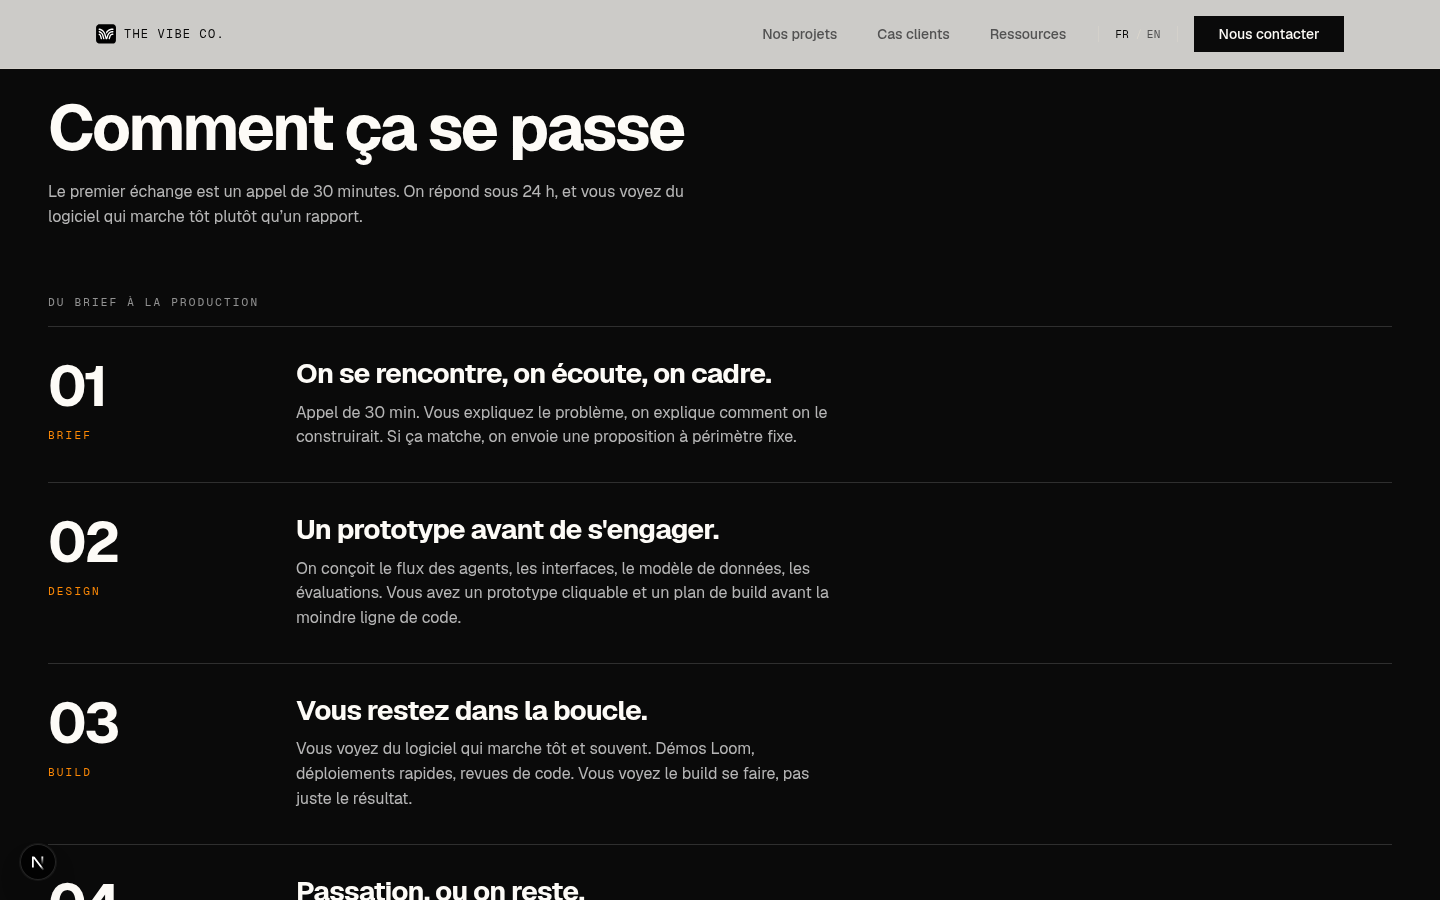
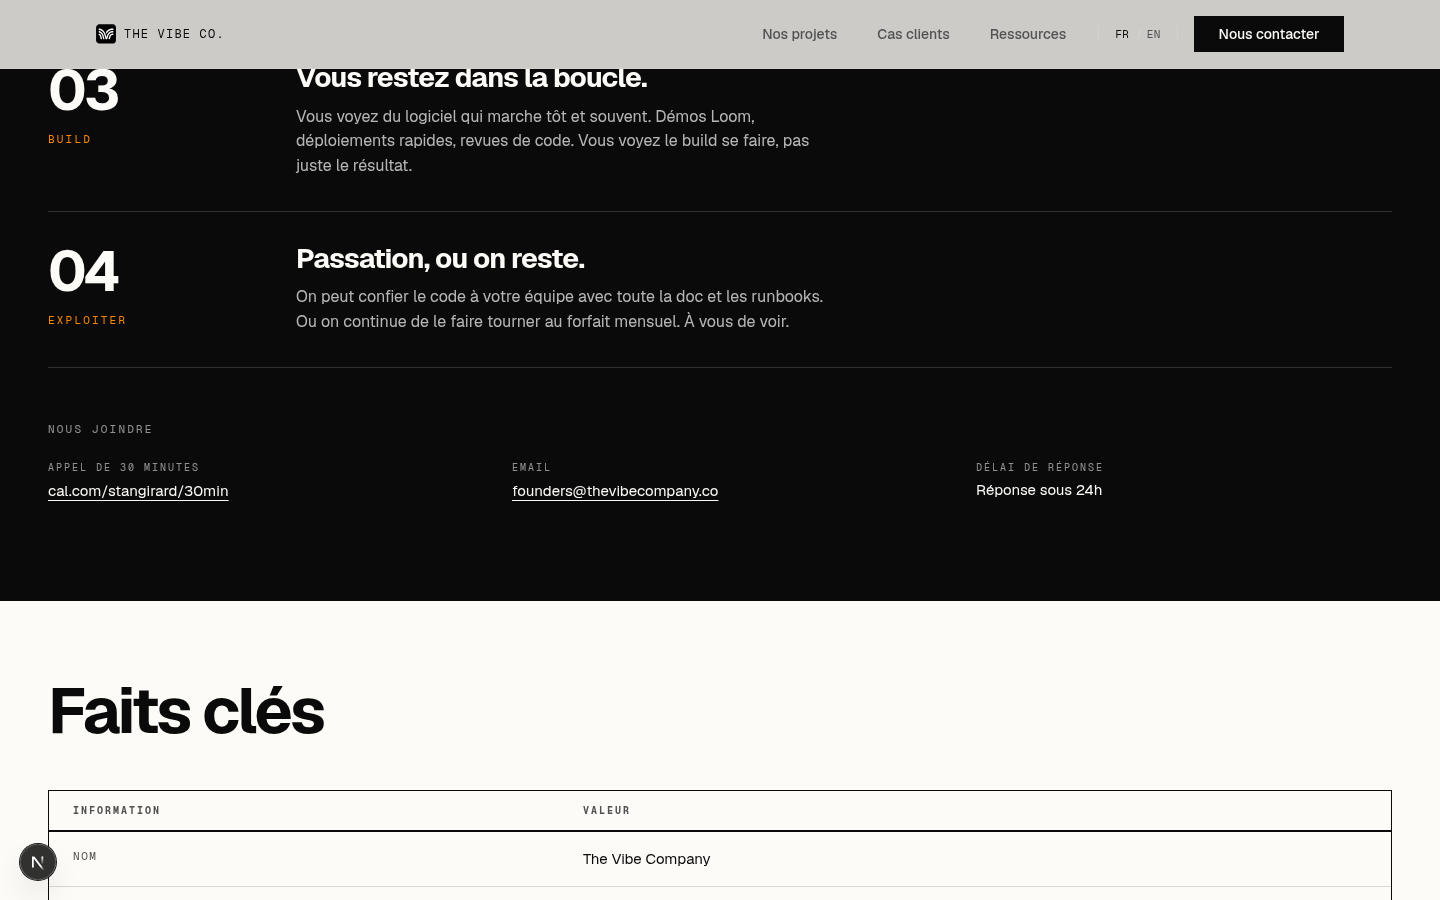
feat(about): confirmed funding and audience, drop every unconfirmed field
Stan validated two facts and closed the rest.

The $1.7M raised with Y Combinator (W24) joins the key-facts table as its
own row, and the sentence where YC already stood as proof in "what makes
us different" now names it. No other figure was added.

The value sentence under the H1 names the audience it was waiting for:
mid-size to large companies.

Everything still unconfirmed is gone from the page rather than left as an
empty field, so no placeholder plumbing remains: the client segments
sentence, the pricing and contract-terms rows, the indicative-timelines
and onboarding blocks, the cost and public-programme FAQ entries, and the
personal X profiles. "How it works" keeps its 30-minute call, the four
delivery steps and the contacts, which now run as one three-column row.
France 2030 stays on the page as proof under "what makes us different".

diff --git a/src/components/about/AboutPage.tsx b/src/components/about/AboutPage.tsx
@@ -33,15 +33,8 @@ import { AboutBookingCta } from "./AboutBookingCta";
  * this component; each declares the other through hreflang.
  *
  * Every number on the page is sourced from work already published on the site
- * (case studies, homepage) or confirmed by the founders. A fact that is still
- * waiting for validation is an empty string in `messages/*.json` and renders
- * nothing — see src/lib/about.ts for the list.
+ * (case studies, homepage) or confirmed by the founders — see src/lib/about.ts.
  */
-
-/** A [TO CONFIRM] field is an empty string: it renders nothing. */
-function filled(value: string): boolean {
-  return value.trim().length > 0;
-}
 
 export async function aboutMetadata(locale: string): Promise<Metadata> {
   const t = await getTranslations({ locale, namespace: "about" });
@@ -70,12 +63,6 @@ export async function AboutPage({ locale }: { locale: string }) {
   const t = await getTranslations({ locale, namespace: "about" });
   const tServices = await getTranslations({ locale, namespace: "services" });
   const tProcess = await getTranslations({ locale, namespace: "process" });
-  const audience = t("audience");
-  const clientSegments = t("clients.segments");
-  const timelines = t("how.timelines");
-  const onboarding = t("how.onboarding");
-  const fundingDetail = t("faq.items.funding.aFunding");
-
   return (
     <div
       data-variant="hybrid"
@@ -97,10 +84,7 @@ export async function AboutPage({ locale }: { locale: string }) {
             {t("title")}
           </h1>
           <p className="m-0 mt-8 max-w-[680px] border-l-2 border-foreground pl-5 text-lg leading-[1.5] text-foreground md:pl-6 md:text-[19px]">
-            {t("lede")}
-            {/* [TO CONFIRM] Target segments ("pour PME et startups" …). While
-                `about.audience` is empty the sentence simply stops here. */}
-            {filled(audience) ? ` ${t("audienceSentence", { segments: audience })}` : null}
+            {t("lede", { audience: t("audience") })}
           </p>
 
           <AboutBookingCta />
@@ -208,13 +192,6 @@ export async function AboutPage({ locale }: { locale: string }) {
         <section className={`${SECTION} border-t border-border py-14 md:py-20`}>
           <h2 className={H2}>{t("clients.title")}</h2>
           <p className={`${PROSE} mt-5 max-w-[680px]`}>{t("clients.intro")}</p>
-          {/* [TO CONFIRM] Exact client segments. `about.clients.segments` is
-              empty on purpose, so no segment is claimed here yet. */}
-          {filled(clientSegments) ? (
-            <p className={`${PROSE} mt-3 max-w-[680px]`}>
-              {t("clients.segmentsSentence", { segments: clientSegments })}
-            </p>
-          ) : null}
 
           <ul className="m-0 mt-10 grid list-none grid-cols-2 border-l border-t border-border p-0 md:mt-12 md:grid-cols-3">
             {CLIENTS.map((client) => (
@@ -285,19 +262,6 @@ export async function AboutPage({ locale }: { locale: string }) {
                     {t("team.linkedin")}
                     <span aria-hidden="true">↗</span>
                   </a>
-                  {/* [TO CONFIRM] Personal X profiles: `ABOUT_TEAM[].x` is
-                      empty, so no second link is rendered. */}
-                  {filled(member.x) ? (
-                    <a
-                      href={member.x}
-                      target="_blank"
-                      rel="noopener noreferrer"
-                      className="inline-flex items-center gap-1.5 font-mono text-[11px] uppercase tracking-[0.2em] text-foreground underline decoration-1 underline-offset-4 hover:text-muted-foreground"
-                    >
-                      {t("team.x")}
-                      <span aria-hidden="true">↗</span>
-                    </a>
-                  ) : null}
                 </div>
               </article>
             ))}
@@ -354,73 +318,46 @@ export async function AboutPage({ locale }: { locale: string }) {
               ))}
             </ol>
 
-            <div className="mt-12 grid grid-cols-1 gap-8 md:grid-cols-3 md:gap-12">
-              <div>
-                <span className="font-mono text-[11px] uppercase tracking-[0.2em] text-white/55">
-                  {t("how.contactTitle")}
-                </span>
-                <dl className="m-0 mt-4 grid grid-cols-1 gap-3">
-                  <div>
-                    <dt className="font-mono text-[10px] uppercase tracking-[0.2em] text-white/55">
-                      {t("how.contactCall")}
-                    </dt>
-                    <dd className="m-0 mt-1">
-                      <a
-                        href={BOOKING_URL}
-                        className="text-[15px] text-background underline decoration-1 underline-offset-4 hover:opacity-70"
-                      >
-                        cal.com/stangirard/30min
-                      </a>
-                    </dd>
-                  </div>
-                  <div>
-                    <dt className="font-mono text-[10px] uppercase tracking-[0.2em] text-white/55">
-                      {t("how.contactEmail")}
-                    </dt>
-                    <dd className="m-0 mt-1">
-                      <a
-                        href="mailto:founders@thevibecompany.co"
-                        className="text-[15px] text-background underline decoration-1 underline-offset-4 hover:opacity-70"
-                      >
-                        founders@thevibecompany.co
-                      </a>
-                    </dd>
-                  </div>
-                  <div>
-                    <dt className="font-mono text-[10px] uppercase tracking-[0.2em] text-white/55">
-                      {t("how.contactResponse")}
-                    </dt>
-                    <dd className="m-0 mt-1 text-[15px] text-background">
-                      {t("response")}
-                    </dd>
-                  </div>
-                </dl>
-              </div>
-
-              {/* [TO CONFIRM] Indicative timelines and the onboarding steps.
-                  Both fields are empty in the messages files, so neither block
-                  is rendered rather than promising a duration we have not
-                  validated. */}
-              {filled(timelines) ? (
+            <div className="mt-12">
+              <span className="font-mono text-[11px] uppercase tracking-[0.2em] text-white/55">
+                {t("how.contactTitle")}
+              </span>
+              <dl className="m-0 mt-5 grid grid-cols-1 gap-5 md:grid-cols-3 md:gap-12">
                 <div>
-                  <span className="font-mono text-[11px] uppercase tracking-[0.2em] text-white/55">
-                    {t("how.timelinesLabel")}
-                  </span>
-                  <p className="m-0 mt-4 text-[15px] leading-[1.6] text-white/70">
-                    {timelines}
-                  </p>
+                  <dt className="font-mono text-[10px] uppercase tracking-[0.2em] text-white/55">
+                    {t("how.contactCall")}
+                  </dt>
+                  <dd className="m-0 mt-1">
+                    <a
+                      href={BOOKING_URL}
+                      className="text-[15px] text-background underline decoration-1 underline-offset-4 hover:opacity-70"
+                    >
+                      cal.com/stangirard/30min
+                    </a>
+                  </dd>
                 </div>
-              ) : null}
-              {filled(onboarding) ? (
                 <div>
-                  <span className="font-mono text-[11px] uppercase tracking-[0.2em] text-white/55">
-                    {t("how.onboardingLabel")}
-                  </span>
-                  <p className="m-0 mt-4 text-[15px] leading-[1.6] text-white/70">
-                    {onboarding}
-                  </p>
+                  <dt className="font-mono text-[10px] uppercase tracking-[0.2em] text-white/55">
+                    {t("how.contactEmail")}
+                  </dt>
+                  <dd className="m-0 mt-1">
+                    <a
+                      href="mailto:founders@thevibecompany.co"
+                      className="text-[15px] text-background underline decoration-1 underline-offset-4 hover:opacity-70"
+                    >
+                      founders@thevibecompany.co
+                    </a>
+                  </dd>
                 </div>
-              ) : null}
+                <div>
+                  <dt className="font-mono text-[10px] uppercase tracking-[0.2em] text-white/55">
+                    {t("how.contactResponse")}
+                  </dt>
+                  <dd className="m-0 mt-1 text-[15px] text-background">
+                    {t("response")}
+                  </dd>
+                </div>
+              </dl>
             </div>
           </div>
         </section>
@@ -499,8 +436,6 @@ export async function AboutPage({ locale }: { locale: string }) {
                           ))}
                         </span>
                       ) : (
-                        // Pricing and contract terms are empty [TO CONFIRM]
-                        // fields: the row stays, the cell shows nothing.
                         t(`facts.values.${key}`)
                       )}
                     </td>
@@ -516,32 +451,17 @@ export async function AboutPage({ locale }: { locale: string }) {
           <h2 className={H2}>{t("faq.title")}</h2>
 
           <div className="mt-10 border-t-2 border-foreground md:mt-12">
-            {ABOUT_FAQ_KEYS.map((key) => {
-              const answer = t(`faq.items.${key}.a`);
-              return (
-                <article
-                  key={key}
-                  className="grid grid-cols-1 gap-3 border-b border-border py-7 md:grid-cols-[minmax(0,420px)_1fr] md:gap-12 md:py-8"
-                >
-                  <h3 className="m-0 text-[20px] font-bold leading-[1.15] tracking-[-0.03em] text-foreground md:text-[24px]">
-                    {t(`faq.items.${key}.q`)}
-                  </h3>
-                  <div>
-                    {/* [TO CONFIRM] `faq.items.cost.a` is empty: no price is
-                        published, so the question ships without an answer. */}
-                    {filled(answer) ? (
-                      <p className={`${PROSE} max-w-[70ch]`}>{answer}</p>
-                    ) : null}
-                    {/* [TO CONFIRM] What we can do about client funding.
-                        `faq.items.funding.aFunding` stays empty: France 2030 is
-                        a fact about us, not an offer to fund a client project. */}
-                    {key === "funding" && filled(fundingDetail) ? (
-                      <p className={`${PROSE} mt-3 max-w-[70ch]`}>{fundingDetail}</p>
-                    ) : null}
-                  </div>
-                </article>
-              );
-            })}
+            {ABOUT_FAQ_KEYS.map((key) => (
+              <article
+                key={key}
+                className="grid grid-cols-1 gap-3 border-b border-border py-7 md:grid-cols-[minmax(0,420px)_1fr] md:gap-12 md:py-8"
+              >
+                <h3 className="m-0 text-[20px] font-bold leading-[1.15] tracking-[-0.03em] text-foreground md:text-[24px]">
+                  {t(`faq.items.${key}.q`)}
+                </h3>
+                <p className={`${PROSE} max-w-[70ch]`}>{t(`faq.items.${key}.a`)}</p>
+              </article>
+            ))}
           </div>
         </section>
 

diff --git a/src/lib/about.ts b/src/lib/about.ts
@@ -2,9 +2,8 @@
  * Confirmed facts and links for the About page (/fr/a-propos, /en/about).
  *
  * Everything here is either already published elsewhere on the site or
- * validated by the founders. Fields that are still waiting for validation are
- * empty strings carrying a [TO CONFIRM] comment: the page skips an empty field
- * rather than filling it with a guess, so nothing invented ever ships.
+ * validated by the founders. Nothing unconfirmed lives on this page: a fact we
+ * cannot source is left off it entirely rather than guessed at.
  */
 
 /** Order of the three services, same keys as the homepage `services` namespace. */
@@ -31,8 +30,6 @@ export interface AboutTeamMember {
   key: "stan" | "antoine";
   name: string;
   linkedin: string;
-  /** Personal X profile. Empty renders no link. */
-  x: string;
 }
 
 export const ABOUT_TEAM: AboutTeamMember[] = [
@@ -40,16 +37,11 @@ export const ABOUT_TEAM: AboutTeamMember[] = [
     key: "stan",
     name: "Stan Girard",
     linkedin: "https://linkedin.com/in/stan-girard",
-    // [TO CONFIRM] Stan's X profile. Left empty on purpose: the handle is not
-    // validated yet, and the page renders no link while the field is empty.
-    x: "",
   },
   {
     key: "antoine",
     name: "Antoine Dewez",
     linkedin: "https://linkedin.com/in/antoine-dewez-gelpe-367774157",
-    // [TO CONFIRM] Antoine's X profile — same rule as above.
-    x: "",
   },
 ];
 
@@ -76,11 +68,7 @@ export const ABOUT_FACT_KEYS = [
   "hq",
   "site",
   "offer",
-  // [TO CONFIRM] `about.facts.values.pricing` and `.terms` are empty in both
-  // messages files. The rows stay in the table with an empty value so the gap
-  // is visible instead of guessed.
-  "pricing",
-  "terms",
+  "funding",
   "clients",
   "projects",
   "networks",
@@ -88,13 +76,4 @@ export const ABOUT_FACT_KEYS = [
 ] as const;
 
 /** Order of the FAQ entries. */
-export const ABOUT_FAQ_KEYS = [
-  // [TO CONFIRM] `about.faq.items.cost.a` is empty: no price or range is
-  // published anywhere, so the question ships without an answer.
-  "cost",
-  "timeline",
-  "data",
-  "funding",
-  "start",
-  "freelance",
-] as const;
+export const ABOUT_FAQ_KEYS = ["timeline", "data", "start", "freelance"] as const;
